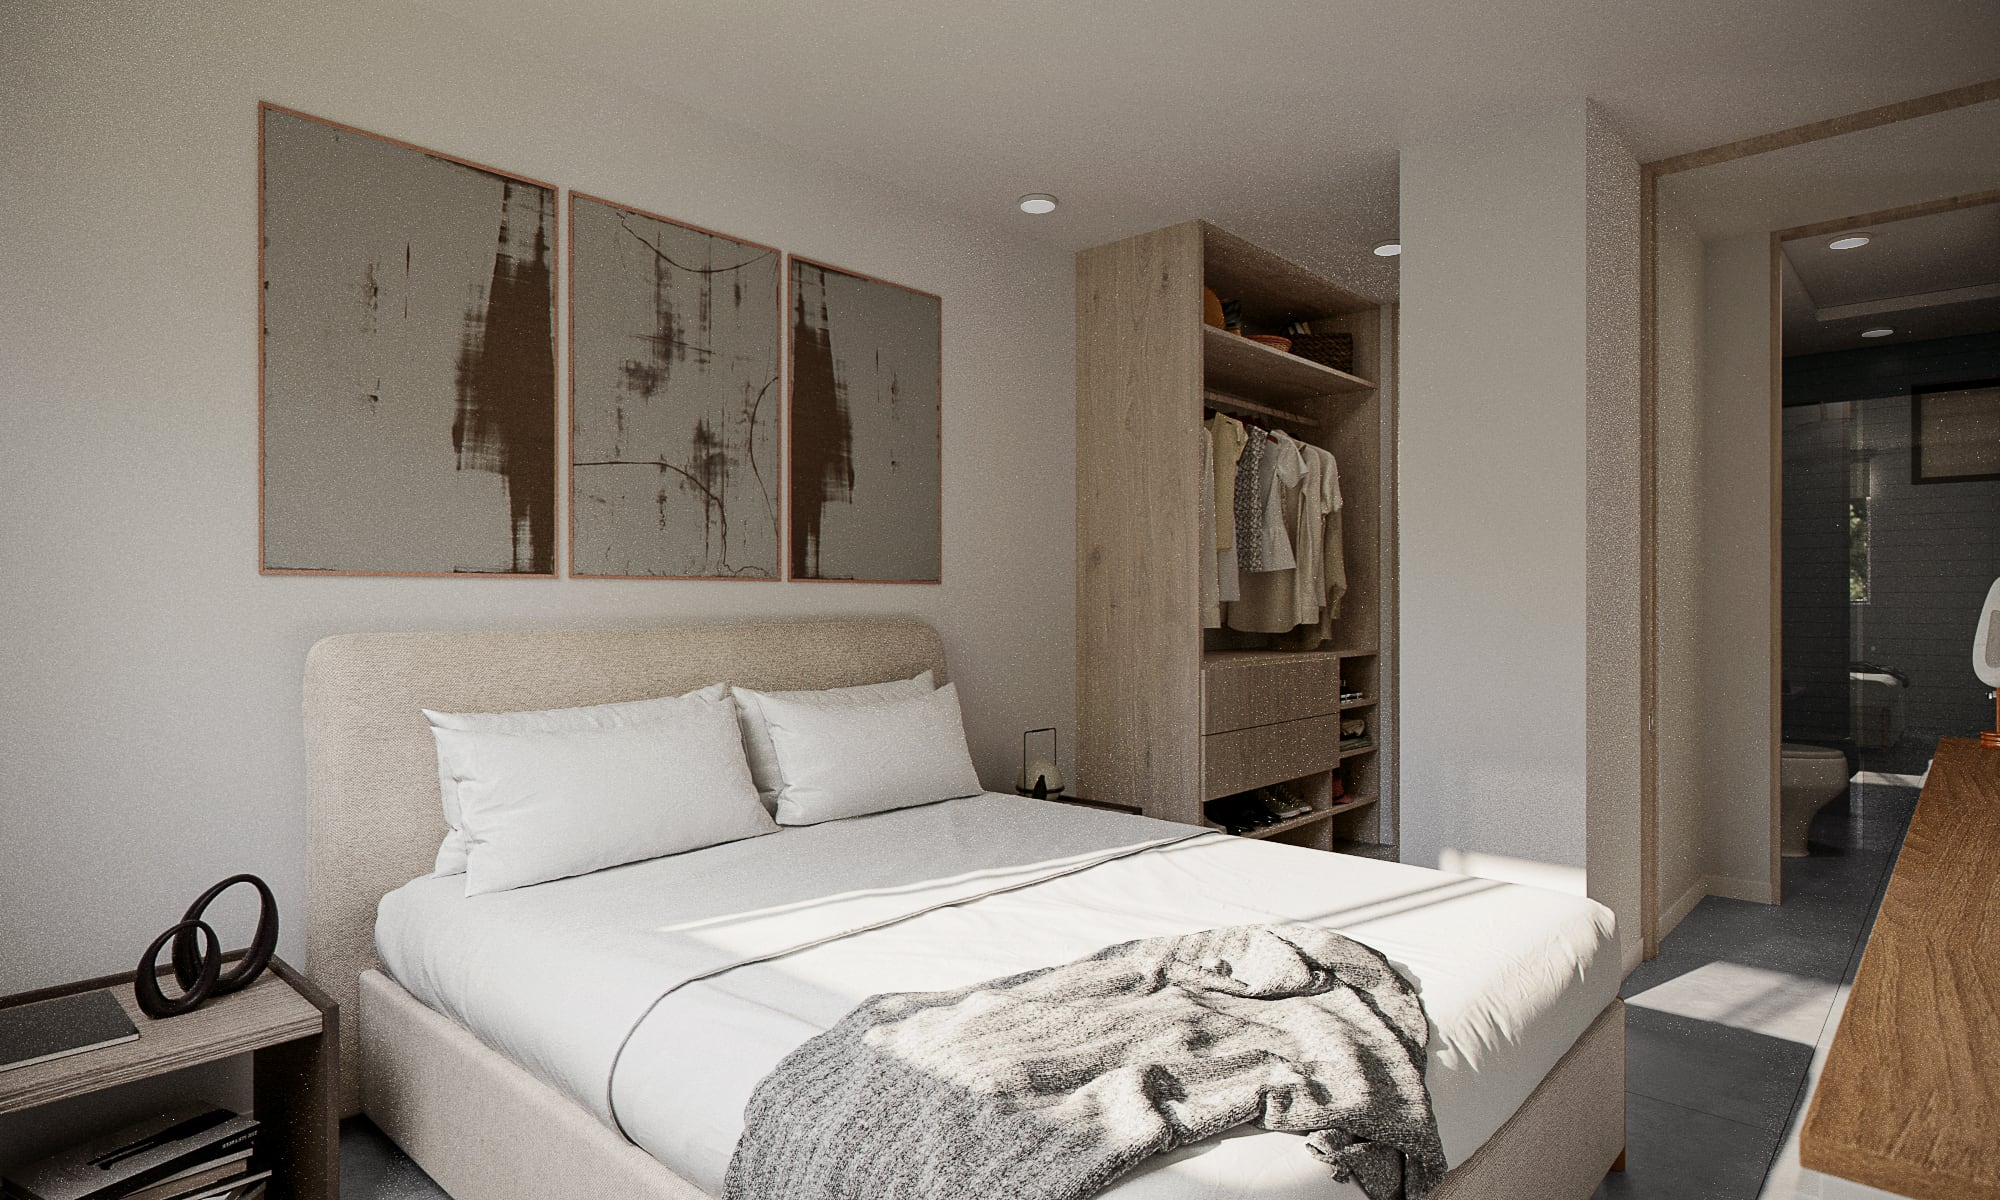
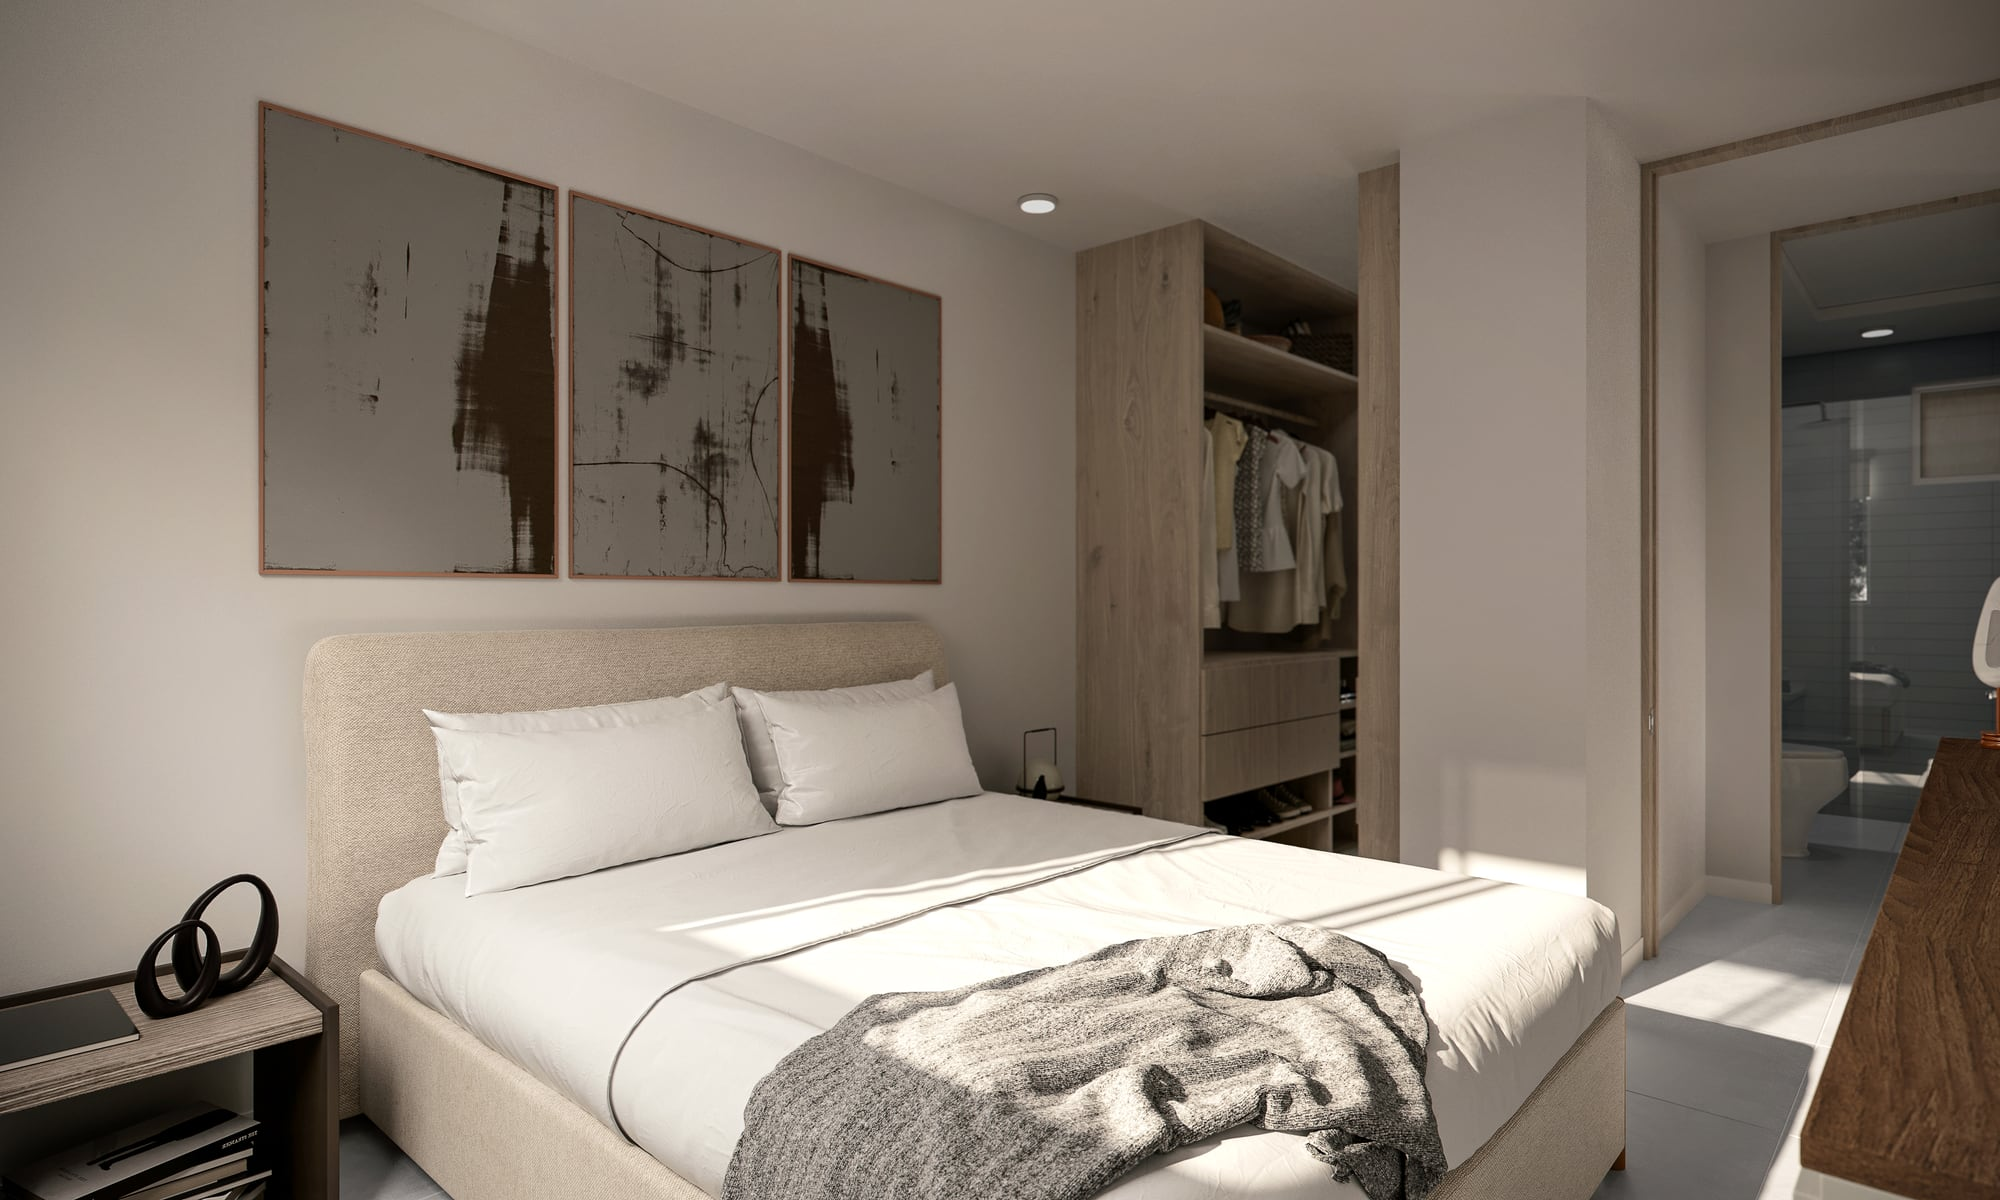
feat: imágenes finales de la galería
Reemplaza por las versiones finales (26-1020, 26-1030 y 26-1103 To Send):
- Apartamento: sala, cocina, estudio, alcobas, baño, balcón, zona de oficios.
- Zonas comunes: gimnasio, piscina, juegos infantiles.
- Fotomontajes 1-3, y se agrega el Fotomontaje 4 (versión nocturna fría;
  la 1 queda con la nocturna cálida).

Mismas dimensiones que antes (2000/2560 px), exportadas con mozjpeg.

diff --git a/src/projects/melendez/portal-del-rio/tour.config.ts b/src/projects/melendez/portal-del-rio/tour.config.ts
@@ -480,7 +480,7 @@ const templateConfig: TourConfig = {
       title,
       category: 'Zonas comunes',
     })),
-    ...[1, 2, 3].map((n) => ({
+    ...[1, 2, 3, 4].map((n) => ({
       id: `fotomontaje-${n}`,
       src: GALLERY(`fotomontajes/fotomontaje-${n}.jpg`),
       title: `Fotomontaje ${n}`,
